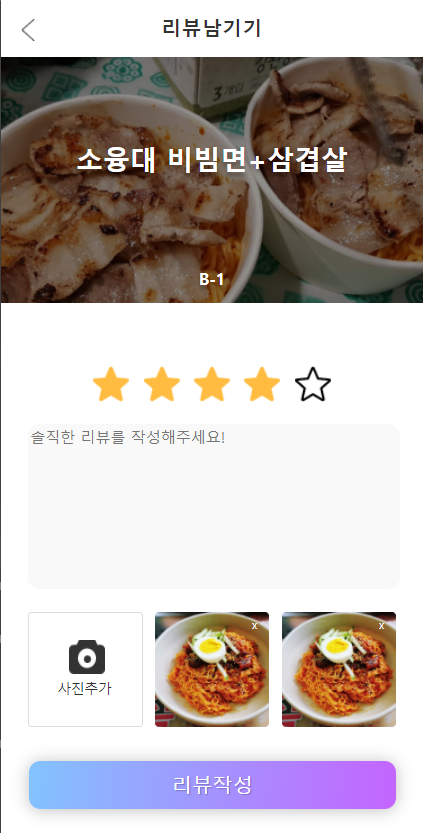
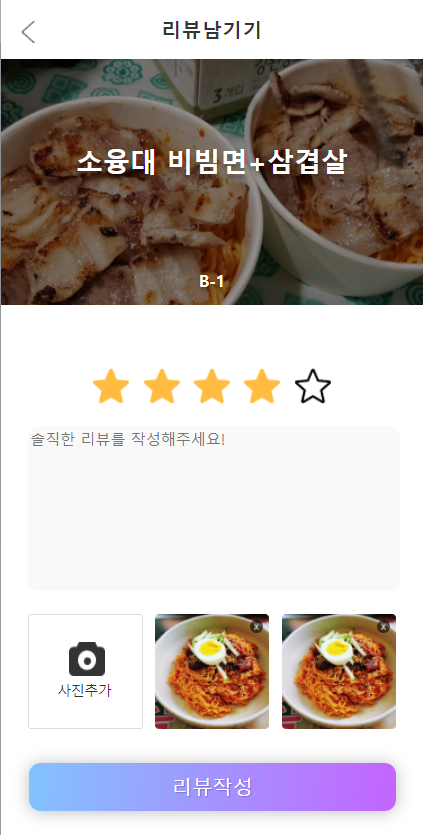
[H03_ReviewPage]update_ReviewAddImage

diff --git a/web-react/src/H03/component/ReviewAddImage.js b/web-react/src/H03/component/ReviewAddImage.js
@@ -2,7 +2,8 @@ import React from 'react';
 import styled from 'styled-components';
 import photo1 from '../img/photo1.png';
 import photo2 from '../img/photo2.png';
-import food from '../img/food.png'
+import food from '../img/food.png';
+import xButton from '../img/xButton.png';
 
 const Wrap = styled.div`
 `;
@@ -28,19 +29,13 @@ const AddImage = styled.button`
     }
     #photo2{
         position: absolute;
-        // width: 6.4px;
-        // height: 6.67px;
         left: 47.8px;
         top:37.33px;
-
-        // background: #333333;
     }
 `;
 
 const AddText = styled.div`
     position: absolute;
-    // width: 102px;
-    // height: 17px;
     left: 25px;
     top: 60px;
     
@@ -49,8 +44,6 @@ const AddText = styled.div`
     font-weight: 500;
     font-size: 12px;
     line-height: 14px;
-    // display: flex;
-    // align-items: center;
     text-align: center;
     
     color: #333333;
@@ -68,20 +61,12 @@ const ReviewImage = styled.span`
 
 const AddX = styled.div`
     position: absolute;
-    width: 8px;
-    height: 10px;
-    top: 255px;
-    
-    font-family: Roboto;
-    font-style: normal;
-    font-weight: normal;
-    font-size: 10px;
-    line-height: 12px;
-    display: flex;
-    align-items: center;
-    text-align: center;
-    
-    color: #FFFFFF;
+    width: 12px;
+    height: 12px;
+    left: 223px;
+    top: 254px;
+
+    background: url(${xButton});
 `;
 
 function ReviewAddImage(){
@@ -94,9 +79,9 @@ function ReviewAddImage(){
             </AddImage>
 
             <ReviewImage style={{left: 137}}/>
-            <AddX style={{left: 223}}>x</AddX>
+            <AddX style={{left: 221}}/>
             <ReviewImage style={{left: 250}}/>
-            <AddX style={{left: 336}}>x</AddX>
+            <AddX style={{left: 334}}/>
         </Wrap>
     )
 }
